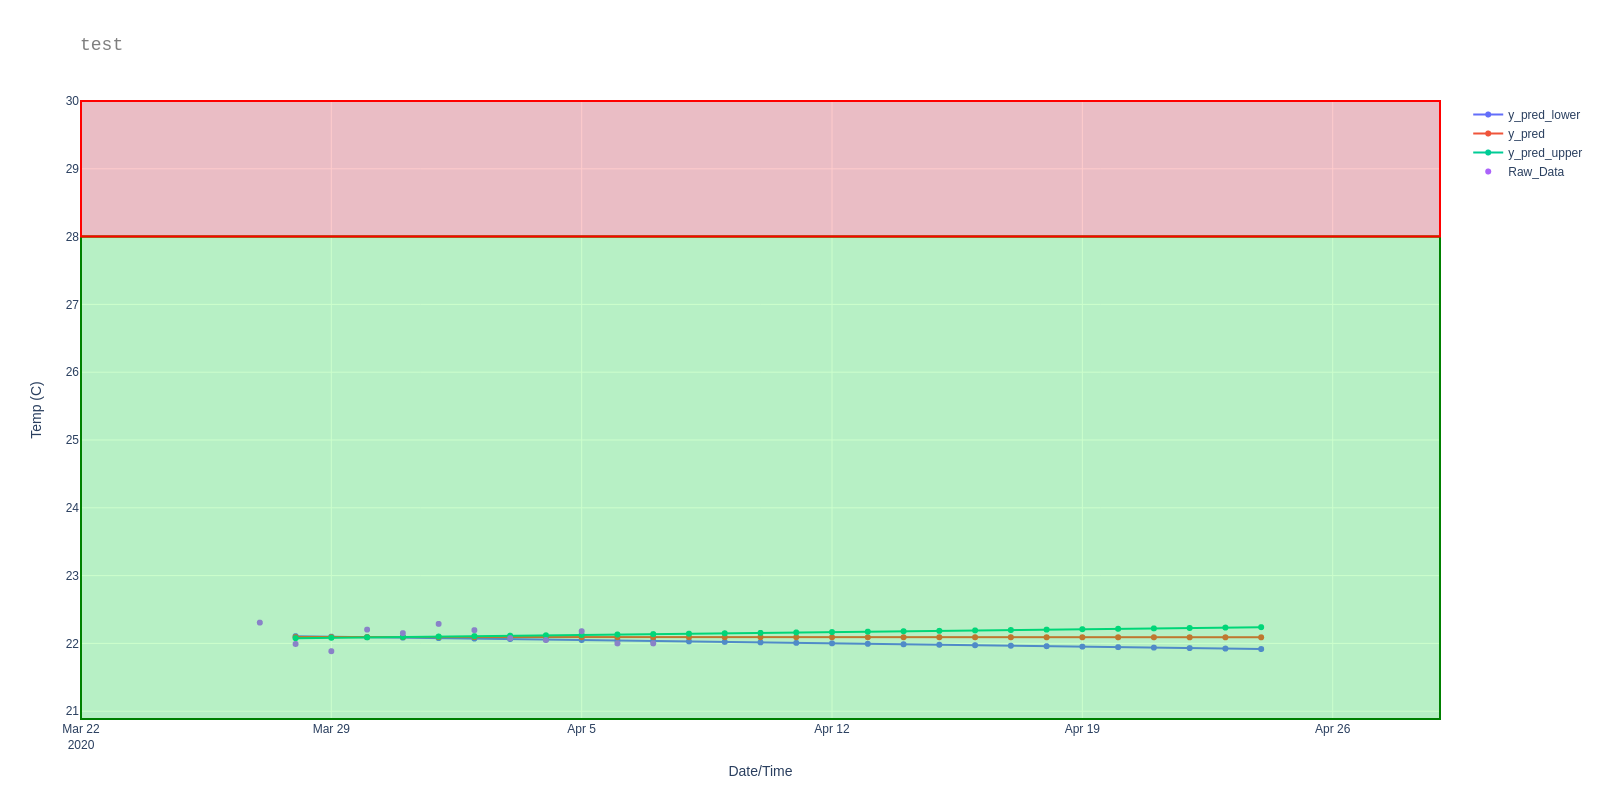
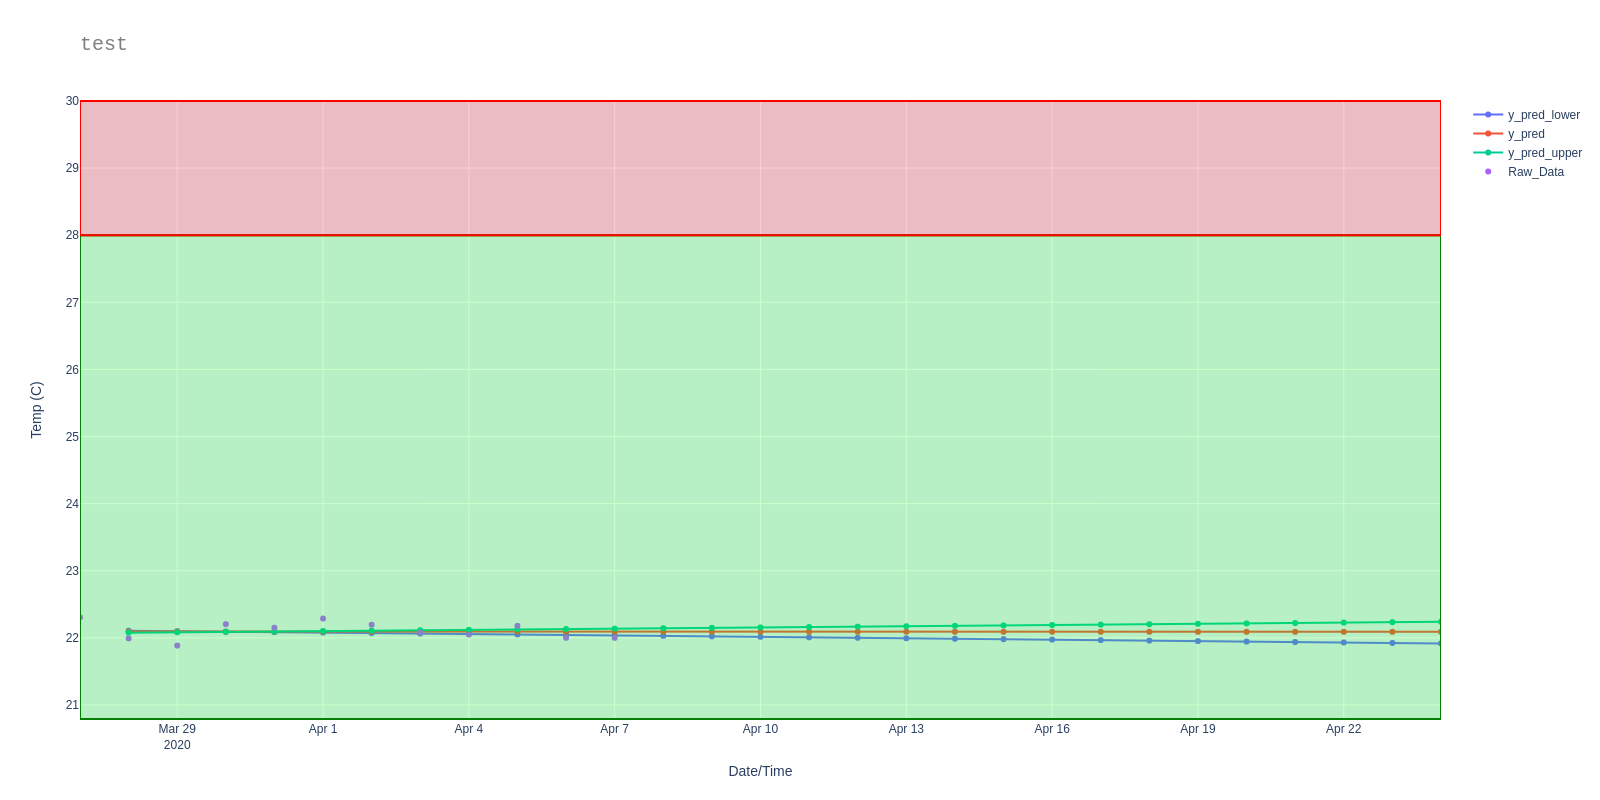
updates

diff --git a/helper_functions/helper_functions.py b/helper_functions/helper_functions.py
@@ -18,30 +18,31 @@ def get_plotly_fig(final_df, upper_error_limit, upper_warning_limit, image_filen
                      "y_axis_title": "Temp (C)", "chart_title": chart_title}
 
     #Create a "shapes list to hold limit lines graph data
-    shapes = [{"type":"line", "x0":(final_df.index.min().tz_localize(None) + pd.Timedelta(days=-5)), "y0" : upper_warning_limit,
-                "x1":(final_df.index.max().tz_localize(None) + pd.Timedelta(days=5)), "y1":upper_warning_limit,"line":{"color":"orange"}
+    shapes = [{"type":"line", "x0":final_df.index.min().tz_localize(None), "y0" : upper_warning_limit,
+                "x1":final_df.index.max().tz_localize(None), "y1":upper_warning_limit,"line":{"color":"orange"}
                },
 
-              {"type": "line", "x0": final_df.index.min().tz_localize(None) + pd.Timedelta(days=-5), "y0": upper_error_limit,
-               "x1": final_df.index.max().tz_localize(None) + pd.Timedelta(days=5), "y1": upper_error_limit, "line":{"color":"red"}},
+              {"type": "line", "x0": final_df.index.min().tz_localize(None), "y0": upper_error_limit,
+               "x1": final_df.index.max().tz_localize(None), "y1": upper_error_limit, "line":{"color":"red"}},
 
               #Green Zone
-              {"type": "rect", "x0": final_df.index.min().tz_localize(None) + pd.Timedelta(days=-5),
-               "y0": (final_df.min().min() - 1),
-               "x1": final_df.index.max().tz_localize(None) + pd.Timedelta(days=5), "y1": upper_warning_limit,
+              {"type": "rect", "x0": final_df.index.min().tz_localize(None),
+               "y0": (final_df.min().min()) - ((final_df.min().min())*0.05), #5% margin buffer
+               "x1": final_df.index.max().tz_localize(None), "y1": upper_warning_limit,
                "line": {"color": "green"}, "fillcolor":'rgba(0,255,0,0.2)'},
 
               #Red Zone
-              {"type": "rect", "x0": final_df.index.min().tz_localize(None) + pd.Timedelta(days=-5),
+              {"type": "rect", "x0": final_df.index.min().tz_localize(None),
                "y0": upper_warning_limit,
-               "x1": final_df.index.max().tz_localize(None) + pd.Timedelta(days=5), "y1": upper_error_limit,
+               "x1": final_df.index.max().tz_localize(None), "y1": upper_error_limit,
                "line": {"color": "red"}, "fillcolor":'rgba(255,0,0,0.2)'}
 
               ]
 
     # Create plotly figure dict skeleton
     fig = {"data": [],
-           "layout": {"title": { "text":limits_titles['chart_title'], "font":{"family":"Courier New, monospace", "size":18, "color":'#7f7f7f'}}, "xaxis": {"title": {"text":limits_titles['x_axis_title']}},
+           "layout": {"title": { "text":limits_titles['chart_title'], "font":{"family":"Courier New, monospace", "size":20, "color":'#7f7f7f'}}, 
+           "xaxis": {"title": {"text":limits_titles['x_axis_title']}, "range":[final_df.index.min(), final_df.index.max()]},
                       "yaxis": {"title": {"text":limits_titles['y_axis_title']}},"shapes":shapes}}
 
     # loop through all x,y combo (index and value pairs)
